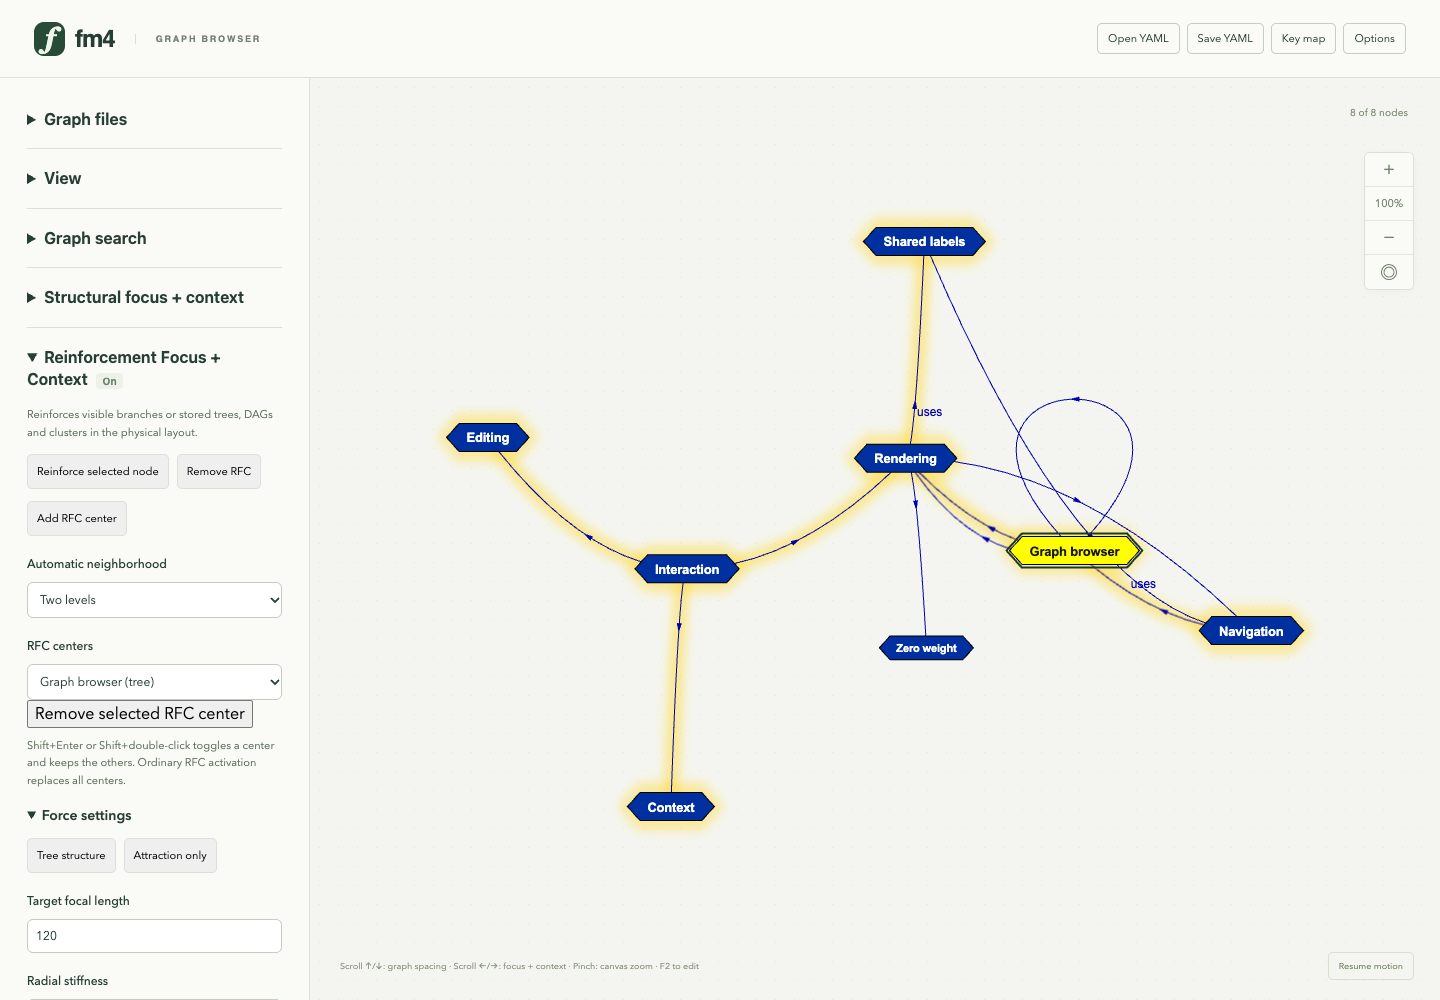
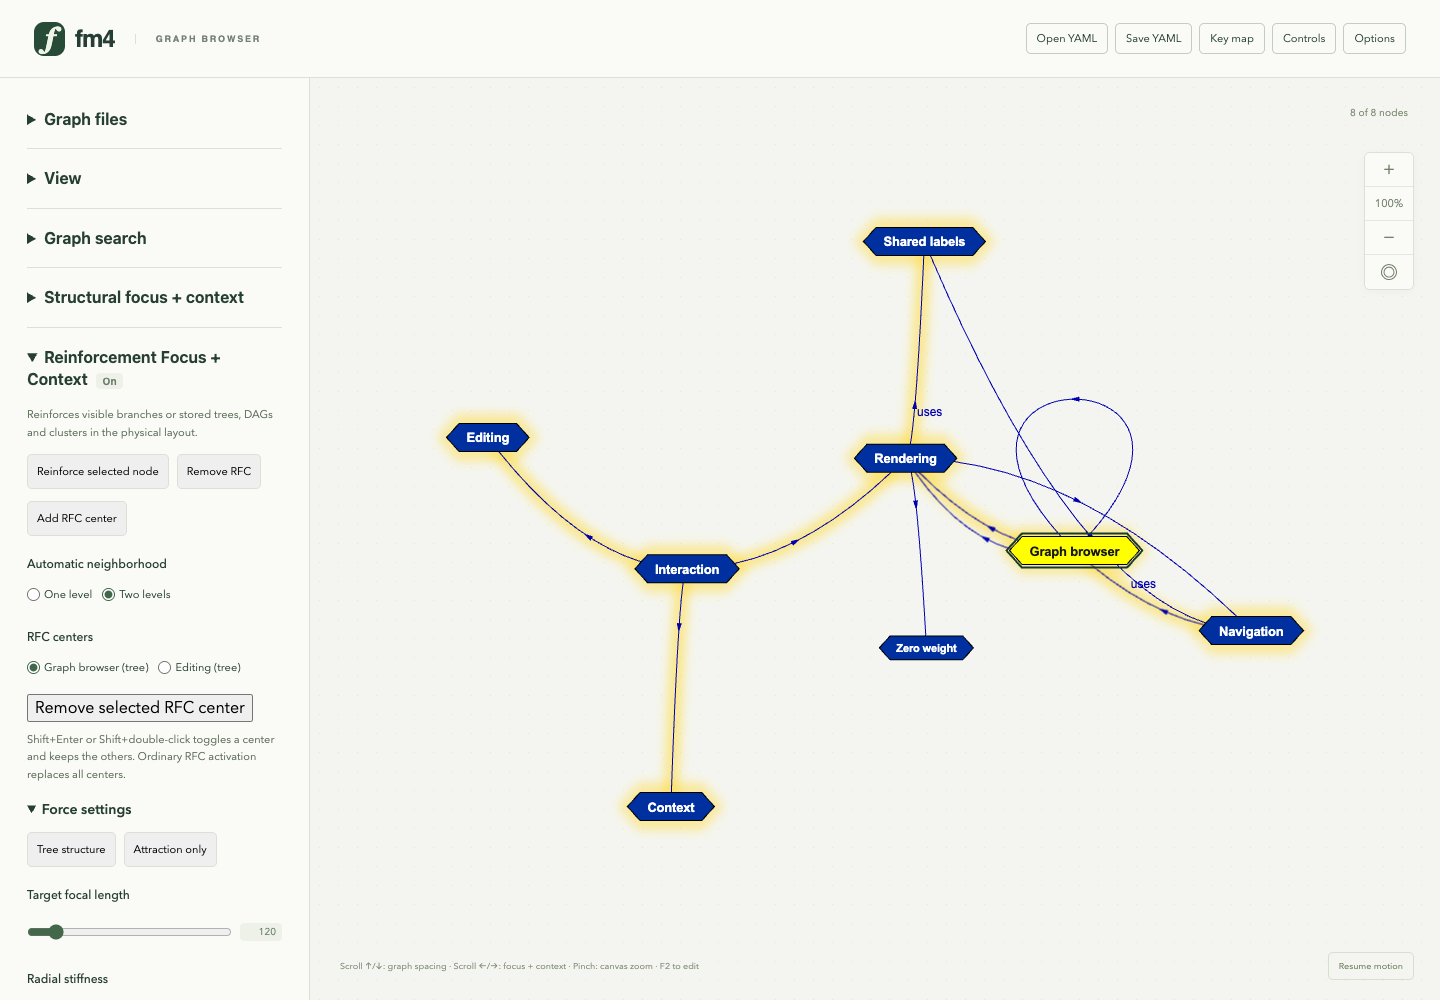
Release search geometry when the same RFC center changes activation

Changed region(s): [[0.0, 0.589, 0.1875, 1.0], [0.7188, 0.031, 0.9062, 0.062], [0.0938, 0.837, 0.1562, 0.868]]

diff --git a/src/fm/browser/search-focus.ts b/src/fm/browser/search-focus.ts
@@ -11,13 +11,14 @@ export interface SearchFocusState {sourceId:string|null;resultIds:string[];disk:
 /** An invisible view constraint over accepted live results. Never inserts shapes, edges or semantic metadata. */
 export class SearchResultFocus {
   private source?:FreshNode;
+  private focusToken:symbol|null=null;
   private edges:readonly FreshEdge[]=[];
   private graph?:FreshGraph;
   private layout?:TGLayout;
   private removeConstraint?:()=>void;
   private readonly removeRfc:()=>void;
   constructor(private readonly panel:FreshmindPanel) {
-    this.removeRfc=panel.getRfc().addListener(state=>{if(this.source&&state.focusId!==this.source.getID())this.clear();});
+    this.removeRfc=panel.getRfc().addListener(state=>{if(this.source&&(state.focusId!==this.source.getID()||panel.getRfc().getFocusEdgesToken(this.source)!==this.focusToken))this.clear();});
     // Unplaceable custom lenses must not keep an otherwise settled runner busy.
     this.constraint.needsTicks=()=>this.constraint(this.panel.getGES(),this.panel.getDragNode()).size>0;
   }
@@ -26,9 +27,10 @@ export class SearchResultFocus {
     if(!edges.length)return;
     this.panel.centerOn(source,true);
     this.panel.getRfc().setFocusEdges(source,edges);
-    this.source=source;this.edges=[...edges];this.graph=this.panel.getCompleteEltSet();this.reconcile();this.panel.resetDamper();
+    const token=this.panel.getRfc().getFocusEdgesToken(source);if(token===null)return;
+    this.focusToken=token;this.source=source;this.edges=[...edges];this.graph=this.panel.getCompleteEltSet();this.reconcile();this.panel.resetDamper();
   }
-  clear():void {this.removeConstraint?.();this.removeConstraint=undefined;this.layout=undefined;this.source=undefined;this.graph=undefined;this.edges=[];}
+  clear():void {this.removeConstraint?.();this.removeConstraint=undefined;this.layout=undefined;this.source=undefined;this.focusToken=null;this.graph=undefined;this.edges=[];}
   reconcile():void {
     if(!this.source)return;
     if(this.graph!==this.panel.getCompleteEltSet()||!this.graph.contains(this.source)){this.clear();return;}

diff --git a/src/fm/rfc/controller.ts b/src/fm/rfc/controller.ts
@@ -29,6 +29,7 @@ export class RfcController {
   private focus:Node|null=null;
   private readonly centers=new Map<Node,string|null>();
   private readonly restrictedEdges=new Map<Node,readonly Edge[]>();
+  private readonly focusEdgeTokens=new WeakMap<Node,symbol>();
   private settings:RfcSettings;
   private neighborhoodDepth:1|2=1;
   private clusterSettings:RfcClusterSettings={rigidity:1};
@@ -135,11 +136,15 @@ export class RfcController {
     this.centers.clear();this.focus=node;if(node)this.centers.set(node,definition);
     this.stabilizer.reset();this.host.resetDamper();this.publish();
   }
+  /** Opaque identity of the current explicit-star activation; null for ordinary/stored/deleted centers. */
+  getFocusEdgesToken(node:Node):symbol|null {
+    return !this.disposed&&this.host.getCompleteEltSet().contains(node)&&this.centers.has(node)&&this.restrictedEdges.has(node)?this.focusEdgeTokens.get(node)??null:null;
+  }
   /** Exclusive transient star over explicit incident relations (for example accepted search results). */
   setFocusEdges(node:Node,edges:readonly Edge[]):void {
     this.assertAlive();this.visible(node);
     if(edges.some(e=>!this.host.getCompleteEltSet().contains(e)||(e.from!==node&&e.to!==node)))throw new TypeError("Focus relations must be current and incident to the center");
-    this.centers.clear();this.restrictedEdges.clear();this.focus=node;this.centers.set(node,null);this.restrictedEdges.set(node,[...edges]);
+    this.centers.clear();this.restrictedEdges.clear();this.focus=node;this.centers.set(node,null);this.restrictedEdges.set(node,[...edges]);this.focusEdgeTokens.set(node,Symbol());
     this.stabilizer.reset();this.host.resetDamper();this.publish();
   }
   /** Adds another center without changing locality/view or replacing existing centers. Repeats are idempotent. */

diff --git a/docs/DONE.md b/docs/DONE.md
@@ -904,3 +904,10 @@ Generated PDFs for the README and all four Markdown documents under `docs/`. Con
 - Bindings synchronize external settings, graph replacement, dynamic options and disabled state, restore original controls on disposal and ignore retired gestures. Collapse retains settings, open sections and scroll position; quick search reopens the panel. Physical graph positions are unchanged by retraction while paused.
 - Verification: `just check` passes **285 core tests**, strict types and library/demo builds; the complete Chrome suite passes **144 browser tests**. The four production views from `just controls-showcase` were visually reviewed, including search/training and a narrow-screen browser check. Local documentation links and whitespace were checked. No layout/lens implementation changes are included, so the Java baseline was not rerun for this UI milestone. These are scoped checks for proposed **INT-03/04/06** and **ARC-04/07**, not a general conformance claim.
 - Records undo/redo as milestone **8**, and the user's clarified automatic two-level neighborhoods per RFC center as **3.7**. Neither is claimed as implemented by this controls change.
+
+## Review of merged PR 48 and same-center focus ownership — 2026-10-25
+
+- Reviewed merged commit **f6d6d64** against the original automatic-neighborhood implementation and the merged search-disk/controls work. The RFC projection/controller changes and regression cases survived merge resolution. The exact merged tree passed **296 core tests**, strict types/builds and the Java baseline.
+- Found a reproducible interaction defect: the search constraint watched only the primary node ID. Replacing a search activation with ordinary or stored RFC on that same node left its old disk attached, allowing it to keep moving context nodes under another focal policy. A new headless regression fails against the merged implementation.
+- Each explicit-star activation now has an opaque identity, weakly associated with its node. Search geometry follows that activation and releases on replacement, including a new explicit star with matching relations. Depth changes and additional centers retain it. A host listener that changes the activation synchronously during publication also retains its chosen mode without a late disk attachment. No force equations or semantic graph records change.
+- Final `just check`: **298 core tests**, strict types and library/demo builds pass. The full combined Chrome suite passed **148 tests**; after the final synchronous-listener guard, all **17 search/automatic-RFC browser cases** pass again. The browser regression exercises the visible same-node Reinforce command and confirms a cooled layout no longer moves context under the retired disk. Java checks pass **9 scenarios, 276 layout batches and 35 lens cases**. The production automatic-RFC image was regenerated for the merged controls and visually reviewed; local documentation links and whitespace checked. These checks support proposed **INT-02/03/04/06** and **ARC-03/04/07**, with no general convergence or usability claim.

diff --git a/docs/automatic-rfc-neighborhoods.md b/docs/automatic-rfc-neighborhoods.md
@@ -34,7 +34,9 @@ The zero-weight context node stays visible without reinforcement.
   Graph replacement clears activations while retaining the panel's depth choice.
 - Stored tree/DAG/cluster memberships retain their explicit definitions. Search
   result focus retains its explicit one-level result star, so context nodes and
-  result neighbors do not become results through this option.
+  result neighbors do not become results through this option. Explicitly
+  reinforcing that same node as an ordinary or stored center replaces the search
+  activation and releases its invisible result disk.
 
 Multiple trees use the existing deduplicated radial constraints and shared-member
 angular ownership. They remain deformable: members are not pinned or copied, and
@@ -51,7 +53,10 @@ separately from numerical force presets. `getState().neighborhoodDepth` exposes
 it. `projectFocus(node, locality)` projects an active center into a supplied
 read-only locality, allowing structural aggregation to protect grandchildren
 from the unfiltered source. Explicit type filters continue to take precedence.
-No settings, structures or synthetic relations are written into graph files.
+A search constraint follows its specific explicit-star activation, identified by
+`getFocusEdgesToken(node)`, and releases when that activation is replaced even if
+the center ID is unchanged. No settings, structures or synthetic relations are
+written into graph files.
 
 The default controller and `projectRfcStructure` retain their original one-level
 path. Tree incidence is built once for angular stars rather than rescanning all

diff --git a/docs/graph-search.md b/docs/graph-search.md
@@ -85,7 +85,9 @@ leave context labels trapped inside. It checks forward-projected placement
 through the current lenses rather than trusting the historical approximate
 inverse alone. Rim positioning overrides competing forces at its boundary;
 this is an added search presentation policy, separate from historical RFC
-force equations. Clearing/changing the primary RFC center, replacing the graph
+force equations. Clearing/changing the primary RFC center, switching that same
+node to ordinary or stored RFC, replacing its explicit relation scope, replacing
+the graph
 or disposing the search controller releases it. A successful empty result batch
 also releases the disk. Rejected/deleted result links leave the active rim.
 
